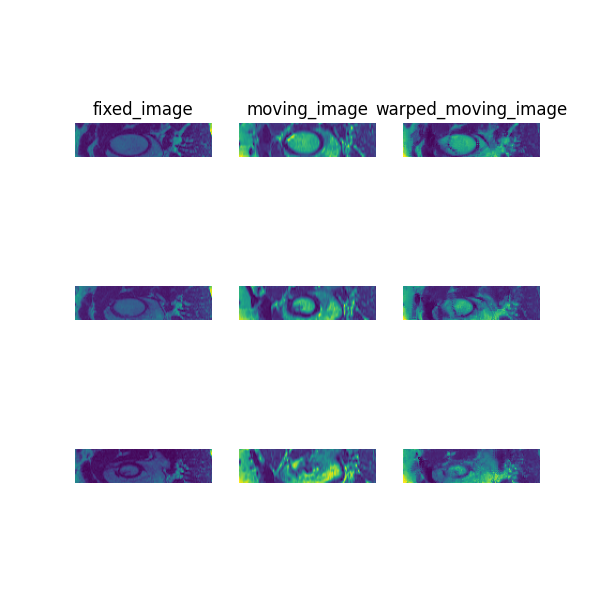
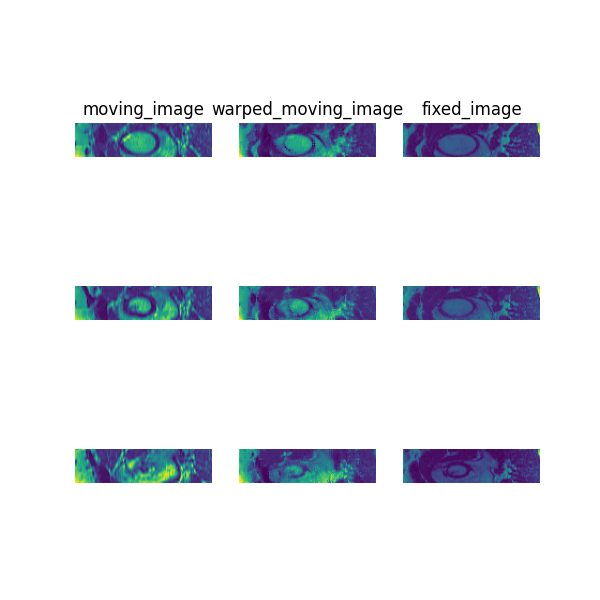
Issue #474: update demo vis

diff --git a/demos/grouped_mask_prostate_longitudinal/README.md b/demos/grouped_mask_prostate_longitudinal/README.md
@@ -87,7 +87,7 @@ registration. Please see the visualisation tool docs
 for more visualisation options such as animated gifs.
 
 ```bash
-deepreg_vis -m 2 -i 'demos/grouped_mask_prostate_longitudinal/logs_predict/<time-stamp>/test/<pair-number>/moving_image.nii.gz, demos/grouped_mask_prostate_longitudinal/logs_predict/<time-stamp>/test/<pair-number>/pred_fixed_image.nii.gz, demos/grouped_mask_prostate_longitudinal/logs_predict/<time-stamp>/test/<pair-number>/fixed_image.nii.gz' --slice-inds '12, 18, 26' -s demos/grouped_mask_prostate_longitudinal/logs_predict
+deepreg_vis -m 2 -i 'demos/grouped_mask_prostate_longitudinal/logs_predict/<time-stamp>/test/<pair-number>/moving_image.nii.gz, demos/grouped_mask_prostate_longitudinal/logs_predict/<time-stamp>/test/<pair-number>/pred_fixed_image.nii.gz, demos/grouped_mask_prostate_longitudinal/logs_predict/<time-stamp>/test/<pair-number>/fixed_image.nii.gz' --slice-inds '10,16,20' -s demos/grouped_mask_prostate_longitudinal/logs_predict
 ```
 
 Note: The prediction must be run before running the command to generate the

diff --git a/demos/unpaired_us_prostate_cv/README.md b/demos/unpaired_us_prostate_cv/README.md
@@ -81,7 +81,7 @@ registration. Please see the visualisation tool docs
 for more visualisation options such as animated gifs.
 
 ```bash
-deepreg_vis -m 2 -i 'demos/unpaired_us_prostate_cv/logs_predict/<time-stamp>/test/<pair-number>/moving_image.nii.gz, demos/unpaired_us_prostate_cv/logs_predict/<time-stamp>/test/<pair-number>/pred_fixed_image.nii.gz, demos/unpaired_us_prostate_cv/logs_predict/<time-stamp>/test/<pair-number>/fixed_image.nii.gz' --slice-inds '30, 50, 70' -s demos/unpaired_us_prostate_cv/logs_predict/
+deepreg_vis -m 2 -i 'demos/unpaired_us_prostate_cv/logs_predict/<time-stamp>/test/<pair-number>/moving_image.nii.gz, demos/unpaired_us_prostate_cv/logs_predict/<time-stamp>/test/<pair-number>/pred_fixed_image.nii.gz, demos/unpaired_us_prostate_cv/logs_predict/<time-stamp>/test/<pair-number>/fixed_image.nii.gz' --slice-inds '50,65,35' -s demos/unpaired_us_prostate_cv/logs_predict/
 ```
 
 Note: The prediction must be run before running the command to generate the

diff --git a/demos/unpaired_ct_abdomen/README.md b/demos/unpaired_ct_abdomen/README.md
@@ -86,7 +86,7 @@ registration. Please see the visualisation tool docs
 for more visualisation options such as animated gifs.
 
 ```bash
-deepreg_vis -m 2 -i 'demos/unpaired_ct_abdomen/logs_predict/comb/<time-stamp>/test/<pair-number>/moving_image.nii.gz, demos/unpaired_ct_abdomen/logs_predict/comb/<time-stamp>/test/<pair-number>/pred_fixed_image.nii.gz, demos/unpaired_ct_abdomen/logs_predict/comb/<time-stamp>/test/<pair-number>/fixed_image.nii.gz' --slice-inds '80, 50, 30' -s demos/unpaired_ct_abdomen/logs_predict
+deepreg_vis -m 2 -i 'demos/unpaired_ct_abdomen/logs_predict/comb/<time-stamp>/test/<pair-number>/moving_image.nii.gz, demos/unpaired_ct_abdomen/logs_predict/comb/<time-stamp>/test/<pair-number>/pred_fixed_image.nii.gz, demos/unpaired_ct_abdomen/logs_predict/comb/<time-stamp>/test/<pair-number>/fixed_image.nii.gz' --slice-inds '30,50,65' -s demos/unpaired_ct_abdomen/logs_predict
 ```
 
 Note: The prediction must be run before running the command to generate the

diff --git a/demos/paired_mrus_prostate/README.md b/demos/paired_mrus_prostate/README.md
@@ -88,7 +88,7 @@ registration. Please see the visualisation tool docs
 for more visualisation options such as animated gifs.
 
 ```bash
-deepreg_vis -m 2 -i 'demos/paired_mrus_prostate/logs_predict/<time-stamp>/test/<pair-number>/moving_image.nii.gz, demos/paired_mrus_prostate/logs_predict/<time-stamp>/test/<pair-number>/pred_fixed_image.nii.gz, demos/paired_mrus_prostate/logs_predict/<time-stamp>/test/<pair-number>/fixed_image.nii.gz' --slice-inds '12, 20, 36' -s demos/paired_mrus_prostate/logs_predict
+deepreg_vis -m 2 -i 'demos/paired_mrus_prostate/logs_predict/<time-stamp>/test/<pair-number>/moving_image.nii.gz, demos/paired_mrus_prostate/logs_predict/<time-stamp>/test/<pair-number>/pred_fixed_image.nii.gz, demos/paired_mrus_prostate/logs_predict/<time-stamp>/test/<pair-number>/fixed_image.nii.gz' --slice-inds '12,20,36' -s demos/paired_mrus_prostate/logs_predict
 ```
 
 Note: The prediction must be run before running the command to generate the

diff --git a/demos/paired_mrus_brain/README.md b/demos/paired_mrus_brain/README.md
@@ -81,7 +81,7 @@ registration. Please see the visualisation tool docs
 for more visualisation options such as animated gifs.
 
 ```bash
-deepreg_vis -m 2 -i 'demos/paired_mrus_brain/logs_predict/<time-stamp>/test/<pair-number>/moving_image.nii.gz, demos/paired_mrus_brain/logs_predict/<time-stamp>/test/<pair-number>/pred_fixed_image.nii.gz, demos/paired_mrus_brain/logs_predict/<time-stamp>/test/<pair-number>/fixed_image.nii.gz' --slice-inds '190, 128, 96' -s demos/paired_mrus_brain/logs_predict
+deepreg_vis -m 2 -i 'demos/paired_mrus_brain/logs_predict/<time-stamp>/test/<pair-number>/moving_image.nii.gz, demos/paired_mrus_brain/logs_predict/<time-stamp>/test/<pair-number>/pred_fixed_image.nii.gz, demos/paired_mrus_brain/logs_predict/<time-stamp>/test/<pair-number>/fixed_image.nii.gz' --slice-inds '190,128,96' -s demos/paired_mrus_brain/logs_predict
 ```
 
 Note: The prediction must be run before running the command to generate the

diff --git a/demos/unpaired_mr_brain/README.md b/demos/unpaired_mr_brain/README.md
@@ -81,7 +81,7 @@ registration. Please see the visualisation tool docs
 for more visualisation options such as animated gifs.
 
 ```bash
-deepreg_vis -m 2 -i 'demos/unpaired_mr_brain/logs_predict/<time-stamp>/test/<pair-number>/moving_image.nii.gz, demos/unpaired_mr_brain/logs_predict/<time-stamp>/test/<pair-number>/pred_fixed_image.nii.gz, demos/unpaired_mr_brain/logs_predict/<time-stamp>/test/<pair-number>/fixed_image.nii.gz' --slice-inds '20, 32, 44' -s demos/unpaired_mr_brain/logs_predict/
+deepreg_vis -m 2 -i 'demos/unpaired_mr_brain/logs_predict/<time-stamp>/test/<pair-number>/moving_image.nii.gz, demos/unpaired_mr_brain/logs_predict/<time-stamp>/test/<pair-number>/pred_fixed_image.nii.gz, demos/unpaired_mr_brain/logs_predict/<time-stamp>/test/<pair-number>/fixed_image.nii.gz' --slice-inds '20,32,44' -s demos/unpaired_mr_brain/logs_predict/
 ```
 
 Note: The prediction must be run before running the command to generate the

diff --git a/demos/grouped_mr_heart/README.md b/demos/grouped_mr_heart/README.md
@@ -84,7 +84,7 @@ registration. Please see the visualisation tool docs
 for more visualisation options such as animated gifs.
 
 ```bash
-deepreg_vis -m 2 -i 'demos/grouped_mr_heart/logs_predict/<time-stamp>/test/<pair-number>/moving_image.nii.gz, demos/grouped_mr_heart/logs_predict/<time-stamp>/test/<pair-number>/pred_fixed_image.nii.gz, demos/grouped_mr_heart/logs_predict/<time-stamp>/test/<pair-number>/fixed_image.nii.gz' --slice-inds '12, 18, 26' -s demos/grouped_mr_heart/logs_predict
+deepreg_vis -m 2 -i 'demos/grouped_mr_heart/logs_predict/<time-stamp>/test/<pair-number>/moving_image.nii.gz, demos/grouped_mr_heart/logs_predict/<time-stamp>/test/<pair-number>/pred_fixed_image.nii.gz, demos/grouped_mr_heart/logs_predict/<time-stamp>/test/<pair-number>/fixed_image.nii.gz' --slice-inds '14,10,20' -s demos/grouped_mr_heart/logs_predict
 ```
 
 Note: The prediction must be run before running the command to generate the

diff --git a/demos/unpaired_ct_lung/README.md b/demos/unpaired_ct_lung/README.md
@@ -81,7 +81,7 @@ registration. Please see the visualisation tool docs
 for more visualisation options such as animated gifs.
 
 ```bash
-deepreg_vis -m 2 -i 'demos/unpaired_ct_lung/logs_predict/<time-stamp>/test/<pair-number>/moving_image.nii.gz, demos/unpaired_ct_lung/logs_predict/<time-stamp>/test/<pair-number>/pred_fixed_image.nii.gz, demos/unpaired_ct_lung/logs_predict/<time-stamp>/test/<pair-number>/fixed_image.nii.gz' --slice-inds '32, 64, 96' -s demos/unpaired_ct_lung/logs_predict
+deepreg_vis -m 2 -i 'demos/unpaired_ct_lung/logs_predict/<time-stamp>/test/<pair-number>/moving_image.nii.gz, demos/unpaired_ct_lung/logs_predict/<time-stamp>/test/<pair-number>/pred_fixed_image.nii.gz, demos/unpaired_ct_lung/logs_predict/<time-stamp>/test/<pair-number>/fixed_image.nii.gz' --slice-inds '40,48,56' -s demos/unpaired_ct_lung/logs_predict
 ```
 
 Note: The prediction must be run before running the command to generate the

diff --git a/demos/paired_ct_lung/README.md b/demos/paired_ct_lung/README.md
@@ -80,7 +80,7 @@ registration. Please see the visualisation tool docs
 for more visualisation options such as animated gifs.
 
 ```bash
-deepreg_vis -m 2 -i 'demos/paired_ct_lung/logs_predict/<time-stamp>/test/<pair-number>/moving_image.nii.gz, demos/paired_ct_lung/logs_predict/<time-stamp>/test/<pair-number>/pred_fixed_image.nii.gz, demos/paired_ct_lung/logs_predict/<time-stamp>/test/<pair-number>/fixed_image.nii.gz' --slice-inds '32, 64, 96' -s demos/paired_ct_lung/logs_predict/
+deepreg_vis -m 2 -i 'demos/paired_ct_lung/logs_predict/<time-stamp>/test/<pair-number>/moving_image.nii.gz, demos/paired_ct_lung/logs_predict/<time-stamp>/test/<pair-number>/pred_fixed_image.nii.gz, demos/paired_ct_lung/logs_predict/<time-stamp>/test/<pair-number>/fixed_image.nii.gz' --slice-inds '64,50,72' -s demos/paired_ct_lung/logs_predict/
 ```
 
 Note: The prediction must be run before running the command to generate the

diff --git a/demos/classical_mr_prostate_nonrigid/README.md b/demos/classical_mr_prostate_nonrigid/README.md
@@ -59,7 +59,7 @@ registration. Please see the visualisation tool docs
 for more visualisation options such as animated gifs.
 
 ```bash
-deepreg_vis -m 2 -i 'demos/classical_mr_prostate_nonrigid/logs_reg/moving_image.nii.gz, demos/classical_mr_prostate_nonrigid/logs_reg/warped_moving_image.nii.gz, demos/classical_mr_prostate_nonrigid/logs_reg/fixed_image.nii.gz' --slice-inds '4, 8, 12' -s demos/classical_mr_prostate_nonrigid/logs_reg
+deepreg_vis -m 2 -i 'demos/classical_mr_prostate_nonrigid/logs_reg/moving_image.nii.gz, demos/classical_mr_prostate_nonrigid/logs_reg/warped_moving_image.nii.gz, demos/classical_mr_prostate_nonrigid/logs_reg/fixed_image.nii.gz' --slice-inds '4,8,12' -s demos/classical_mr_prostate_nonrigid/logs_reg
 ```
 
 Note: The registration script must be run before running the command to generate the

diff --git a/demos/classical_ct_headneck_affine/README.md b/demos/classical_ct_headneck_affine/README.md
@@ -63,7 +63,7 @@ registration. Please see the visualisation tool docs
 for more visualisation options such as animated gifs.
 
 ```bash
-deepreg_vis -m 2 -i 'demos/classical_ct_headneck_affine/logs_reg/moving_image.nii.gz, demos/classical_ct_headneck_affine/logs_reg/warped_moving_image.nii.gz, demos/classical_ct_headneck_affine/logs_reg/fixed_image.nii.gz' --slice-inds '4, 8, 12' -s demos/classical_ct_headneck_affine/logs_reg
+deepreg_vis -m 2 -i 'demos/classical_ct_headneck_affine/logs_reg/moving_image.nii.gz, demos/classical_ct_headneck_affine/logs_reg/warped_moving_image.nii.gz, demos/classical_ct_headneck_affine/logs_reg/fixed_image.nii.gz' --slice-inds '4,8,12' -s demos/classical_ct_headneck_affine/logs_reg
 ```
 
 Note: The registration script must be run before running the command to generate the
